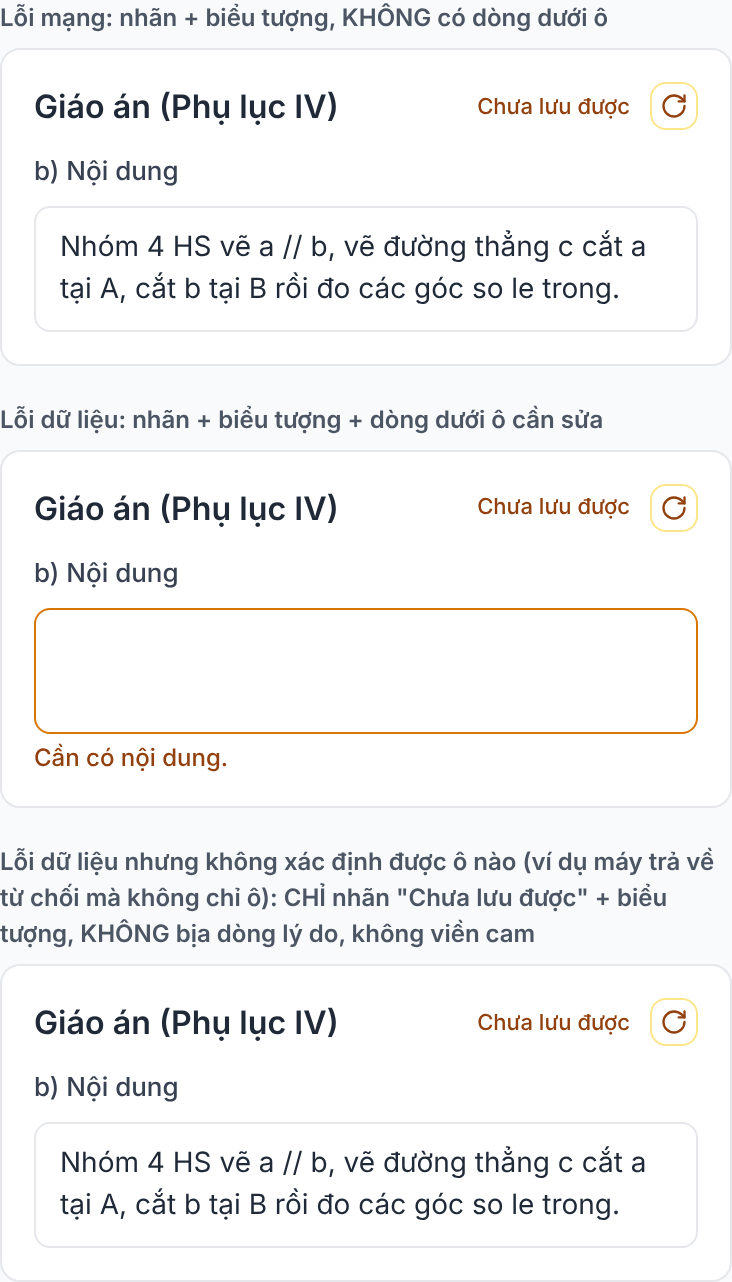
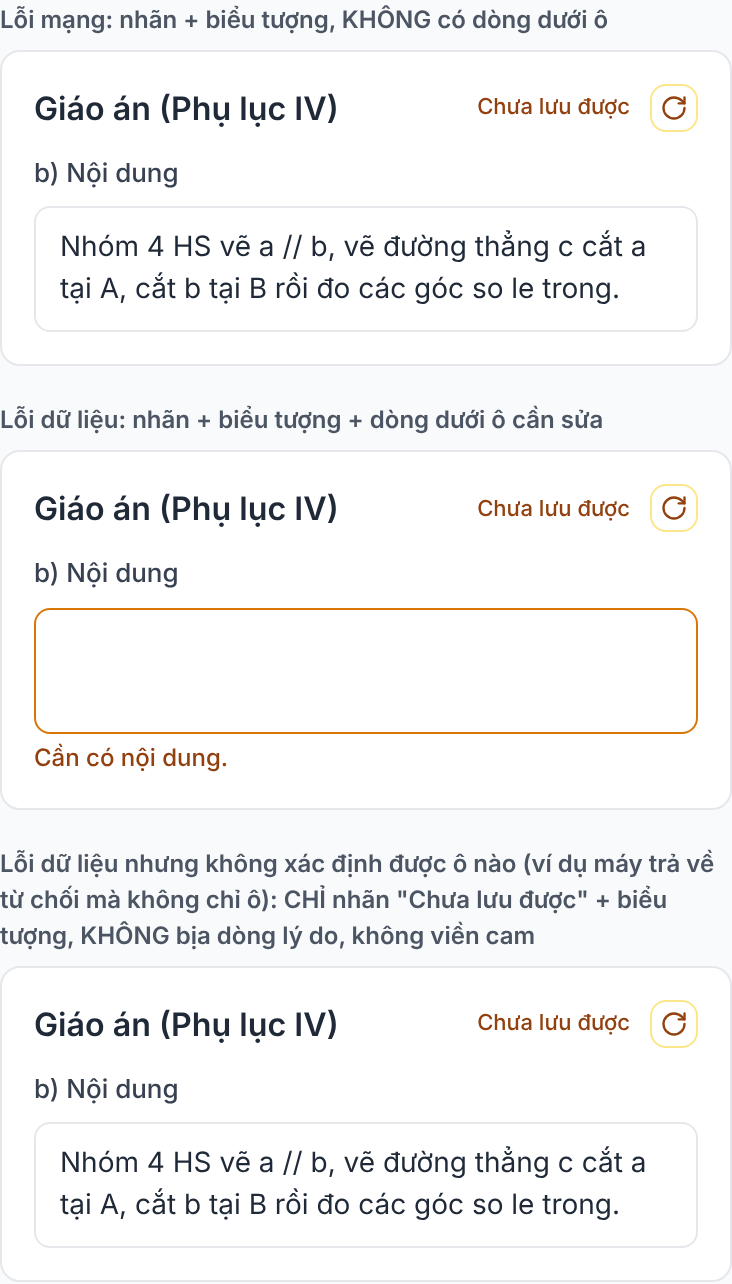
retry/new02: bản A hint copy (approved 01/10), spec dev notes

diff --git a/retry/new02-qa-fixes/index.html b/retry/new02-qa-fixes/index.html
@@ -135,9 +135,9 @@ var ICON='<svg viewBox="0 0 24 24" fill="none" stroke="currentColor" stroke-widt
 var LOOK='<svg width="13" height="13" viewBox="0 0 24 24" fill="none" stroke="currentColor" stroke-width="2" stroke-linecap="round" stroke-linejoin="round" aria-hidden="true"><circle cx="11" cy="11" r="7"/><path d="m20 20-3.5-3.5"/><path d="M11 8v3.2"/><path d="M11 14h.01"/></svg>';
 var CHK='<svg width="12" height="12" viewBox="0 0 24 24" fill="none" stroke="currentColor" stroke-width="2.5" stroke-linecap="round" stroke-linejoin="round" aria-hidden="true"><path d="M5 12.5l4.5 4.5L19 7.5"/></svg>';
 var TEXT={saved:'Đã lưu',saving:'Đang lưu',error:'Chưa lưu được'};
-/* Huy 2026-10-01: rút gọn. Thay SAVE_ACTION_BLOCKED (save-status.ts) bằng 2 câu theo loại lỗi */
-var BLOCKED='Chưa lưu được nên chưa chạy. Bấm biểu tượng thử lại ở đầu giáo án.';   /* lỗi mạng / 5xx / 409 / không biết ô nào */
-var BLOCKED_DATA='Chưa lưu được nên chưa chạy. Sửa các ô được đánh dấu.';            /* lỗi dữ liệu có ô được đánh dấu */
+/* Huy duyệt bản A (01/10): thay SAVE_ACTION_BLOCKED (save-status.ts) bằng 2 câu theo loại lỗi */
+var BLOCKED='Chưa lưu được nên thao tác này chưa chạy. Bấm biểu tượng thử lại ở đầu giáo án.';   /* lỗi mạng / 5xx / 409 / không biết ô nào */
+var BLOCKED_DATA='Chưa lưu được nên thao tác này chưa chạy. Sửa các ô có dòng nhắc bên dưới.';            /* lỗi dữ liệu có ô được đánh dấu */
 
 /* ============ M2 rules. Limits = packages/shared/src/save-plan.ts (TEXT_MAX 4000, SHORT_TEXT_MAX 200, LIST_MAX 12, AIDS_MAX 20, minutes 1..180) ============ */
 function parseList(raw,sep){ return raw.split(sep==='nl'?/\n/:/[;\n]/).map(function(x){return x.trim()}).filter(Boolean); }
@@ -284,9 +284,9 @@ board.appendChild(section('Biểu tượng "Thử lại" khi lỗi dữ liệu',
   var c2=mini('error'); var w2=fieldNode('knowledge',''); c2.appendChild(w2); setBad(w2,why(DEFS.knowledge,''),true);
   board.appendChild(block('icon-2','b · Sau khi bấm biểu tượng: không "Đang lưu" giả, focus nằm ở ô cần sửa (con trỏ nhấp nháy), dòng lý do được đọc lại',c2,{icon:'2'}));
   var c3=mini('error'); c3.insertAdjacentHTML('beforeend','<div class="acts"><button type="button" class="btn btn-secondary">Soạn lại giáo án</button><button type="button" class="btn btn-outline">Tạo phiếu bài tập</button><button type="button" class="btn btn-default">Xuất Word</button><p class="act-fail" id="hint-net-p">'+BLOCKED+'</p></div>');
-  board.appendChild(block('hint-net','c · Dòng dưới Xuất/Soạn lại/Tạo phiếu, LỖI MẠNG (và lỗi dữ liệu không biết ô nào): câu ngắn mới',c3,{hint:'net'}));
+  board.appendChild(block('hint-net','c · Dòng dưới Xuất/Soạn lại/Tạo phiếu, LỖI MẠNG (và lỗi dữ liệu không biết ô nào): bản A đã duyệt',c3,{hint:'net'}));
   var c4=mini('error'); c4.insertAdjacentHTML('beforeend','<div class="acts"><button type="button" class="btn btn-secondary">Soạn lại giáo án</button><button type="button" class="btn btn-outline">Tạo phiếu bài tập</button><button type="button" class="btn btn-default">Xuất Word</button><p class="act-fail" id="hint-data-p">'+BLOCKED_DATA+'</p></div>');
-  board.appendChild(block('hint-data','d · Cùng dòng, LỖI DỮ LIỆU có ô được đánh dấu: câu ngắn mới',c4,{hint:'data'}));
+  board.appendChild(block('hint-data','d · Cùng dòng, LỖI DỮ LIỆU có ô được đánh dấu: bản A đã duyệt',c4,{hint:'data'}));
 })();
 
 /* ============ network vs data ============ */
@@ -299,7 +299,7 @@ board.appendChild(section('Lỗi mạng và lỗi dữ liệu: khác nhau ở đ
   '<tr><th>Bấm biểu tượng</th><td>"Đang lưu" ít nhất 600 ms, gửi lại; xong thì focus về ô đang sửa, lỗi lại thì focus về biểu tượng</td><td>Không gửi gì, không "Đang lưu"; focus chuyển đến ô đầu tiên có dòng lý do (CR-3)</td></tr>'+
   '<tr><th>Dòng dưới ô</th><td>Không có</td><td>Có, ngay dưới từng ô cần sửa, chỉ nêu trọng tâm: "Cần có ít nhất một ý."</td></tr>'+
   '<tr><th>Viền ô</th><td>Không đổi</td><td>Viền cam #D97706 (mới); khi đang gõ vào ô thì viền xanh như mọi ô</td></tr>'+
-  '<tr><th>Dòng dưới Xuất / Soạn lại / Tạo phiếu</th><td>"Chưa lưu được nên chưa chạy. Bấm biểu tượng thử lại ở đầu giáo án."</td><td>"Chưa lưu được nên chưa chạy. Sửa các ô được đánh dấu."</td></tr>'+
+  '<tr><th>Dòng dưới Xuất / Soạn lại / Tạo phiếu</th><td>"Chưa lưu được nên thao tác này chưa chạy. Bấm biểu tượng thử lại ở đầu giáo án."</td><td>"Chưa lưu được nên thao tác này chưa chạy. Sửa các ô có dòng nhắc bên dưới."</td></tr>'+
   '<tr><th>Tự thử lại</th><td>Có: mỗi lần sửa tiếp (sau 1 giây) hoặc bấm biểu tượng</td><td>Có: ngay khi ô cuối cùng hợp lệ, giáo án tự lưu sau 1 giây, không cần bấm</td></tr>'+
   '<tr><th>Khi nào hết</th><td>Lưu thành công thì "Đã lưu", biểu tượng mất</td><td>Dòng của ô nào mất ngay khi ô đó hợp lệ; nhãn về "Đã lưu" khi tự lưu xong</td></tr>'+
   '<tr><th>Lỗi dữ liệu nhưng không biết ô nào</th><td>(không áp dụng)</td><td>Chỉ nhãn "Chưa lưu được" + biểu tượng; không có dòng, không viền cam; bấm biểu tượng chạy luồng đã duyệt (Đang lưu, gửi lại)</td></tr>'+

diff --git a/retry/new02-qa-fixes/ac-test.js b/retry/new02-qa-fixes/ac-test.js
@@ -8,7 +8,7 @@ const b=await chromium.launch({executablePath:'/usr/bin/google-chrome',args:['--
 const res=[]; const ok=(n,c,d)=>res.push((c?'PASS ':'FAIL ')+n+(d?' · '+d:''));
 const RULES={'r-kn-empty':'Kiến thức','r-kn-many':'Kiến thức','r-aids-many':'Học liệu','r-content-empty':'b) Nội dung','r-content-long':'b) Nội dung','r-minutes':'Thời lượng (phút)','r-assign-empty':'Giao nhiệm vụ','r-subname-empty':'Tên hoạt động con','r-subname-long':'Tên hoạt động con','r-school-long':'Trường'};
 const EXPECT={'r-kn-empty':'Cần có ít nhất một ý.','r-kn-many':'Tối đa 12 ý (ngăn bằng ; hoặc xuống dòng).','r-aids-many':'Tối đa 20 dòng.','r-content-empty':'Cần có nội dung.','r-content-long':'Tối đa 4000 ký tự.','r-minutes':'Nhập số phút từ 1 đến 180.','r-assign-empty':'Cần có nội dung.','r-subname-empty':'Cần có tên.','r-subname-long':'Tối đa 200 ký tự.','r-school-long':'Tối đa 200 ký tự.'};
-const HINT_NET='Chưa lưu được nên chưa chạy. Bấm biểu tượng thử lại ở đầu giáo án.', HINT_DATA='Chưa lưu được nên chưa chạy. Sửa các ô được đánh dấu.';
+const HINT_NET='Chưa lưu được nên thao tác này chưa chạy. Bấm biểu tượng thử lại ở đầu giáo án.', HINT_DATA='Chưa lưu được nên thao tác này chưa chạy. Sửa các ô có dòng nhắc bên dưới.';
 for (const w of [1280,720,390]){
  const T=`[${w}] `;
  const ctx=await b.newContext({viewport:{width:w,height:800},hasTouch:w<720});
@@ -147,7 +147,7 @@ for (const w of [1280,720,390]){
  // click Xuất while data error: approved hint text, unchanged
  await lp.click(live('[data-act=export]')); 
  await lp.click(live('[data-act=export]'));
- ok(T+'live: AC-G Xuất Word during DATA error -> "Chưa lưu được nên chưa chạy. Sửa các ô được đánh dấu."', await lp.evaluate(h=>document.getElementById('live-hint').textContent===h,HINT_DATA));
+ ok(T+'live: AC-G Xuất Word during DATA error -> "Chưa lưu được nên thao tác này chưa chạy. Sửa các ô có dòng nhắc bên dưới."', await lp.evaluate(h=>document.getElementById('live-hint').textContent===h,HINT_DATA));
  ok(T+'live: AC-G hint <=2 lines and inside the viewport', await lp.evaluate(()=>{const e=document.getElementById('live-hint'),r=e.getBoundingClientRect();return Math.round(r.height/parseFloat(getComputedStyle(e).lineHeight))<=2&&r.left>=0&&r.right<=innerWidth}));
  await lp.click(live('[data-act=revise]'));
  ok(T+'live: AC-G Soạn lại during DATA error -> same data sentence', await lp.evaluate(h=>document.getElementById('live-hint').textContent===h,HINT_DATA));
@@ -181,7 +181,7 @@ for (const w of [1280,720,390]){
  await lp.evaluate(()=>{document.getElementById('fail').checked=true;document.getElementById('rej').checked=false});
  await lp.click(fld('school')); await lp.keyboard.type('n'); await lp.waitForTimeout(1500);
  await lp.click(live('[data-act=export]'));
- ok(T+'live: AC-A Xuất Word during NETWORK error -> "Chưa lưu được nên chưa chạy. Bấm biểu tượng thử lại ở đầu giáo án."', (await lab())==='Chưa lưu được'&&await lp.evaluate(h=>document.getElementById('live-hint').textContent===h,HINT_NET));
+ ok(T+'live: AC-A Xuất Word during NETWORK error -> "Chưa lưu được nên thao tác này chưa chạy. Bấm biểu tượng thử lại ở đầu giáo án."', (await lab())==='Chưa lưu được'&&await lp.evaluate(h=>document.getElementById('live-hint').textContent===h,HINT_NET));
  await lp.evaluate(()=>{document.getElementById('fail').checked=false}); await lp.click(live('.save-retry')); await lp.waitForTimeout(1000);
  ok(T+'live: hint disappears after a successful save', await lp.evaluate(()=>document.getElementById('live-hint').textContent===''));
  // minutes are NOT silently changed to 1 (L1)

diff --git a/retry/new02-qa-fixes/spec-new02-qa-fixes.md b/retry/new02-qa-fixes/spec-new02-qa-fixes.md
@@ -1,10 +1,10 @@
 # NEW-02 QA fixes · H1 (tên hoạt động cố định) + M2 (dòng lý do khi lưu bị từ chối)
 
-Trạng thái: **chờ Huy duyệt, Dev FE chưa làm.** Một PR, chỉ FE. Nguồn: `ga-postgen-check/qa-run-new02/results.md` (H1, M2, L1), code `origin/main` b735fd9.
+Trạng thái: **Huy approved 01/10 (bản A); BA PASS 01/10.** Dev FE được làm. Dòng đầu: toàn bộ thiết kế NEW-02 (H1, M2, CR-1, CR-3, bản A hai dòng nhắc dưới nút) đã duyệt. Một PR, chỉ FE. Nguồn: `ga-postgen-check/qa-run-new02/results.md` (H1, M2, L1), code `origin/main` b735fd9.
 Mockup: `/retry/new02-qa-fixes/` · bấm thử: `?live=1` · kiểm tra tự động: `ac-test.js` (3 độ rộng; xem ac-test-output.txt).
 Giữ nguyên (đã duyệt): biểu tượng thử lại, tooltip "Thử lại", nhãn "Đã lưu / Đang lưu / Chưa lưu được", ô 24px luôn chiếm chỗ.
 
-> **Huy 2026-10-01: rút gọn, bỏ lời mở và tên mục.** Thay copy BA đề xuất trước đó ở 3 chỗ (**BA cần xem lại**): (1) dòng lý do dưới ô M2 (bỏ "Thầy cô sửa mục … rồi thử lại:" và tên mục; viết hoa đầu câu); (2) dòng dưới Xuất/Soạn lại/Tạo phiếu khi lỗi mạng (thay `SAVE_ACTION_BLOCKED` đã duyệt/đã merge); (3) dòng đó khi lỗi dữ liệu (câu mới, thay CR-2). Chữ "Thầy cô" không còn trong các dòng này; giọng văn ngắn và không có từ lỗi/sai/máy chủ/400/validation. Hành vi, biểu tượng, viền hổ phách, focus, H1 không đổi.
+> **Huy 2026-10-01: rút gọn, bỏ lời mở và tên mục** (đã duyệt, BA PASS). Thay copy BA đề xuất trước đó ở 3 chỗ: (1) dòng lý do dưới ô M2 (bỏ "Thầy cô sửa mục … rồi thử lại:" và tên mục; viết hoa đầu câu); (2) dòng dưới Xuất/Soạn lại/Tạo phiếu khi lỗi mạng (thay `SAVE_ACTION_BLOCKED` đã duyệt/đã merge); (3) dòng đó khi lỗi dữ liệu (câu mới, thay CR-2). Bản A (Huy duyệt 01/10) giữ "thao tác này chưa chạy" như câu đã merge, chỉ bỏ "Thầy cô … giúp nhé"; giọng văn ngắn và không có từ lỗi/sai/máy chủ/400/validation. Hành vi, biểu tượng, viền hổ phách, focus, H1 không đổi.
 
 ## 1. Quy tắc và giới hạn trong code (nguồn của bảng copy)
 | Quy tắc | Giới hạn | File |
@@ -49,7 +49,7 @@ Lưu ý Dev: hiển thị `ACTIVITY_SLOT_NAMES[index]` (tên chuẩn), không hi
 - **Tự lưu lại:** ngay khi ô cuối cùng hợp lệ, tự lưu sau 1 giây như mọi lần sửa (không cần bấm).
 - **Khi nào dòng mất:** (1) ngay khi giá trị ô đó hợp lệ lúc đang gõ, kiểm tra cục bộ từng ô, không cần mạng; (2) lưu thành công thì mọi dòng mất; không mất khi chỉ bấm vào ô hay gõ chữ mà vẫn chưa hợp lệ.
 - **Focus:** không bao giờ tự chuyển focus lúc đang gõ. Chỉ chuyển khi thầy cô chủ động bấm biểu tượng thử lại.
-- **Dòng dưới Xuất/Soạn lại/Tạo phiếu (đã rút gọn, đổi copy):** lỗi mạng / 5xx / 409 / lỗi dữ liệu không biết ô nào: "Chưa lưu được nên chưa chạy. Bấm biểu tượng thử lại ở đầu giáo án." Lỗi dữ liệu có ô được đánh dấu: "Chưa lưu được nên chưa chạy. Sửa các ô được đánh dấu." Vẫn đặt ở cùng chỗ, `aria-live="polite"`, `aria-describedby` từ nút đã bấm như đã duyệt. Mất khi lưu thành công.
+- **Dòng dưới Xuất/Soạn lại/Tạo phiếu (đã rút gọn, đổi copy):** lỗi mạng / 5xx / 409 / lỗi dữ liệu không biết ô nào: "Chưa lưu được nên thao tác này chưa chạy. Bấm biểu tượng thử lại ở đầu giáo án." Lỗi dữ liệu có ô được đánh dấu: "Chưa lưu được nên thao tác này chưa chạy. Sửa các ô có dòng nhắc bên dưới." Vẫn đặt ở cùng chỗ, `aria-live="polite"`, `aria-describedby` từ nút đã bấm như đã duyệt. Mất khi lưu thành công.
 
 ### Bảng copy theo quy tắc (Huy 2026-10-01: chỉ nêu trọng tâm, không lời mở, không tên mục)
 Dòng đặt liền dưới đúng ô, gắn `aria-describedby`; ô có `<label for>` riêng (trình đọc đọc nhãn ô rồi tới dòng). Với ô trong danh sách lặp (4 bước tổ chức, hoạt động con) dòng vẫn nằm dưới đúng ô đó, không gộp.
@@ -70,11 +70,13 @@ Dòng đặt liền dưới đúng ô, gắn `aria-describedby`; ô có `<label 
 | Ghi chú điều chỉnh > 4000 | Tối đa 4000 ký tự. |
 Mọi dòng vừa **1 dòng** ở 1280, 720 và 390 (đo trong test: 10/10 ca). Chữ cái đầu viết hoa. Không dùng "lỗi / sai / máy chủ / 400 / validation / undefined", không lộ mã quy tắc.
 
-**Hai dòng dưới Xuất / Soạn lại / Tạo phiếu**
+**Hai dòng dưới Xuất / Soạn lại / Tạo phiếu (bản A, đã duyệt)**
+
+"Ô được đánh dấu" = **ô có dòng nhắc bên dưới** (viền hổ phách + dòng lý do ngay dưới ô). QA kiểm đúng điều đó: câu "Sửa các ô có dòng nhắc bên dưới." chỉ hiện khi có ít nhất một ô như vậy; nếu không ô nào có dòng thì dùng câu "Bấm biểu tượng thử lại…".
 | Loại lỗi | Dòng |
 |---|---|
-| Mạng / 5xx / 409 / lỗi dữ liệu không biết ô | Chưa lưu được nên chưa chạy. Bấm biểu tượng thử lại ở đầu giáo án. |
-| Dữ liệu, có ô được đánh dấu | Chưa lưu được nên chưa chạy. Sửa các ô được đánh dấu. |
+| Mạng / 5xx / 409 / lỗi dữ liệu không biết ô | Chưa lưu được nên thao tác này chưa chạy. Bấm biểu tượng thử lại ở đầu giáo án. |
+| Dữ liệu, có ô được đánh dấu | Chưa lưu được nên thao tác này chưa chạy. Sửa các ô có dòng nhắc bên dưới. |
 
 **Yêu cầu hành vi (Dev):** ô Thời lượng không tự đổi rỗng/0 thành 1 (bỏ `|| 1`): giữ giá trị người dùng nhập, hiện dòng "Nhập số phút từ 1 đến 180." (mockup đã làm vậy; sẽ khép L1).
 
@@ -96,7 +98,7 @@ Mọi dòng vừa **1 dòng** ở 1280, 720 và 390 (đo trong test: 10/10 ca). 
 | Biểu tượng | có | có (y hệt) |
 | Bấm biểu tượng | Đang lưu ≥ 600ms, gửi lại; focus về ô vừa sửa nếu xong, về biểu tượng nếu lại lỗi | Không gửi, không "Đang lưu"; focus tới ô sai đầu tiên (CR-3) |
 | Dòng dưới ô | không | có, mỗi ô sai, câu ngắn (vd. "Cần có ít nhất một ý.") |
-| Dòng dưới Xuất/Soạn lại/Tạo phiếu | "Chưa lưu được nên chưa chạy. Bấm biểu tượng thử lại ở đầu giáo án." | "Chưa lưu được nên chưa chạy. Sửa các ô được đánh dấu." |
+| Dòng dưới Xuất/Soạn lại/Tạo phiếu | "Chưa lưu được nên thao tác này chưa chạy. Bấm biểu tượng thử lại ở đầu giáo án." | "Chưa lưu được nên thao tác này chưa chạy. Sửa các ô có dòng nhắc bên dưới." |
 | Gửi PUT | có | không, đến khi mọi ô hợp lệ |
 | Lỗi dữ liệu nhưng không xác định được ô | (không áp dụng) | **Chỉ** nhãn + biểu tượng, không dòng, không viền cam, không `aria-invalid`; bấm biểu tượng chạy luồng đã duyệt (Đang lưu, gửi lại) |
 | Hết khi | lưu được | từng ô hợp lệ, rồi tự lưu |
@@ -112,16 +114,25 @@ Server trả 400/422 (nếu client lọt) nên dùng cùng giao diện: nếu bo
 
 ## 5. Thay đổi cần duyệt / xung đột với phần đã duyệt
 - **Không xung đột** với biểu tượng, tooltip, nhãn, ô 24px, focus khi thử lại. Kiểu dáng/vị trí dòng chặn dưới nút không đổi.
-- **Đổi copy so với bản BA đã đề xuất/đã duyệt (BA xem lại):**
+- **Đổi copy so với bản BA đã đề xuất/đã duyệt (BA đã PASS):**
   - Dòng lý do M2: bản cũ "Thầy cô sửa mục {mục} rồi thử lại: {lý do}" thành chỉ "{Lý do}". Yêu cầu "copy nguyên văn nhãn" không còn áp dụng; thay bằng dòng liền dưới đúng ô + `aria-describedby`.
-  - Dòng dưới nút khi lỗi mạng: bản cũ (và `SAVE_ACTION_BLOCKED` trên main) "Chưa lưu được nên thao tác này chưa chạy. Thầy cô bấm biểu tượng thử lại ở đầu giáo án giúp nhé." thành "Chưa lưu được nên chưa chạy. Bấm biểu tượng thử lại ở đầu giáo án." Cần sửa `apps/web/src/lib/save-status.ts` và test đang so khớp câu cũ.
-  - Dòng dưới nút khi lỗi dữ liệu: câu mới "Chưa lưu được nên chưa chạy. Sửa các ô được đánh dấu." (thay CR-2).
+  - Dòng dưới nút khi lỗi mạng: bản cũ (và `SAVE_ACTION_BLOCKED` trên main) "Chưa lưu được nên thao tác này chưa chạy. Thầy cô bấm biểu tượng thử lại ở đầu giáo án giúp nhé." thành "Chưa lưu được nên thao tác này chưa chạy. Bấm biểu tượng thử lại ở đầu giáo án." Cần sửa `apps/web/src/lib/save-status.ts` và test đang so khớp câu cũ.
+  - Dòng dưới nút khi lỗi dữ liệu: câu mới "Chưa lưu được nên thao tác này chưa chạy. Sửa các ô có dòng nhắc bên dưới." (thay CR-2; bản A).
   - AC-A (dòng dưới nút khi lỗi mạng) và AC-G (khi lỗi dữ liệu) cập nhật theo hai câu trên; test của mockup so khớp đúng câu.
-- **CR-1:** viền ô không hợp lệ `#D97706` + `aria-invalid` (code chưa có kiểu này).
-- **CR-3:** bấm biểu tượng khi còn ô sai thì không gửi và chuyển focus tới ô sai đầu tiên (kiểu dáng biểu tượng không đổi).
+- **CR-1 (approved):** viền ô không hợp lệ `#D97706` + `aria-invalid` (code chưa có kiểu này).
+- **CR-3 (approved):** bấm biểu tượng khi còn ô sai thì không gửi và chuyển focus tới ô sai đầu tiên (kiểu dáng biểu tượng không đổi).
 
 ## 6. Câu hỏi mở (BA / Dev FE)
 1. Nhận biết lỗi dữ liệu ở đâu: client Zod trước khi gửi (hiện tại, cho biết ô nào qua `issue.path`), hay server 400? Cần map `issue.path` sang ô thật (có cả hoạt động con theo chỉ số). Server 400 hiện chỉ trả `issues[0].message`, không có `path`: nếu cần dòng cho trường hợp lọt client, BE phải trả path (ngoài phạm vi PR FE này).
 2. L1: đã chốt (Huy): không tự đổi thành 1; ô giữ giá trị người nhập và hiện "Nhập số phút từ 1 đến 180.". Dev bỏ `|| 1` ở `activity-editor.tsx`; kiểm tra input number rỗng không làm `Number('')` thành 0 rồi lưu.
 3. Danh sách ô có dòng trong PR này: đủ bảng trên, hay chỉ Kiến thức/Học liệu/4000/thời lượng (các ca QA nêu)?
 4. Giáo án cũ có tên hoạt động lớn bị đổi trong bản nháp: có cần tự đưa về tên chuẩn khi tải? (đề xuất: có.)
+
+## 7. Ghi chú cho Dev FE
+1. Thay `SAVE_ACTION_BLOCKED` (`apps/web/src/lib/save-status.ts`) bằng hai câu bản A (lỗi mạng/5xx/409/dữ liệu không biết ô: "…Bấm biểu tượng thử lại ở đầu giáo án."; dữ liệu có ô bị đánh dấu: "…Sửa các ô có dòng nhắc bên dưới."), chọn theo việc có ô nào đang có dòng nhắc hay không. Sửa mọi test đang so khớp câu cũ (`grep` `SAVE_ACTION_BLOCKED` và chuỗi "Thầy cô bấm biểu tượng thử lại").
+2. Bỏ `|| 1` ở `onChange` ô Thời lượng trong `apps/web/src/components/plan/activity-editor.tsx` (`Number(event.target.value) || 1`): giữ giá trị người nhập (rỗng, 0, âm), để quy tắc 1 đến 180 báo dòng. Cẩn thận: ô number rỗng cho `Number('') === 0`; cần lưu chuỗi nháp hoặc `NaN` để hiện dòng.
+3. Phát hiện ô sai ở **client bằng Zod**: dùng `savePlanContentSchema.safeParse` (đã có trong `toSavePlanContent`), lấy **mọi** `issue` (không chỉ `issues[0]`) và ánh xạ `issue.path` sang ô (`activities.N.durationMinutes`, `activities.N.subActivities.M.name`, `objectives.knowledge`, `teachingAids`...). Server 400 hiện chỉ trả `issues[0].message`, không có path: không dựa vào server để chỉ ô.
+4. `issue.path` không ánh xạ được sang ô nào thì **chỉ** hiện nhãn "Chưa lưu được" + biểu tượng (+ câu "Bấm biểu tượng thử lại…" dưới nút), không bịa dòng, không viền hổ phách.
+5. H1: hiển thị `ACTIVITY_SLOT_NAMES[index]` (không phải `activity.name`) trong `<h4>`; khi tải giáo án, **reset tên hoạt động cấp 1 về tên chuẩn** (`canonicalActivityName`) để bản nháp cũ bị đổi tên tự lành. Cập nhật test/E2E còn dùng `#activity-*-name` như ô nhập.
+6. Dòng lý do: `<p id="{ô}-why" aria-live="polite">` ngay dưới đúng ô (kể cả ô trong danh sách lặp: bước tổ chức, hoạt động con), ô có `aria-invalid` + `aria-describedby`; dòng xóa khi ô hợp lệ lúc gõ (kiểm tra cục bộ, không cần mạng). Không chuyển focus khi gõ; chỉ chuyển khi bấm biểu tượng thử lại (CR-3).
+7. **Không làm trong PR này:** "Khởi động" (hoạt động mở thêm) và kiểm tổng thời lượng các hoạt động so với thời lượng bài. Kiểm tổng thời lượng là **backlog riêng**.
